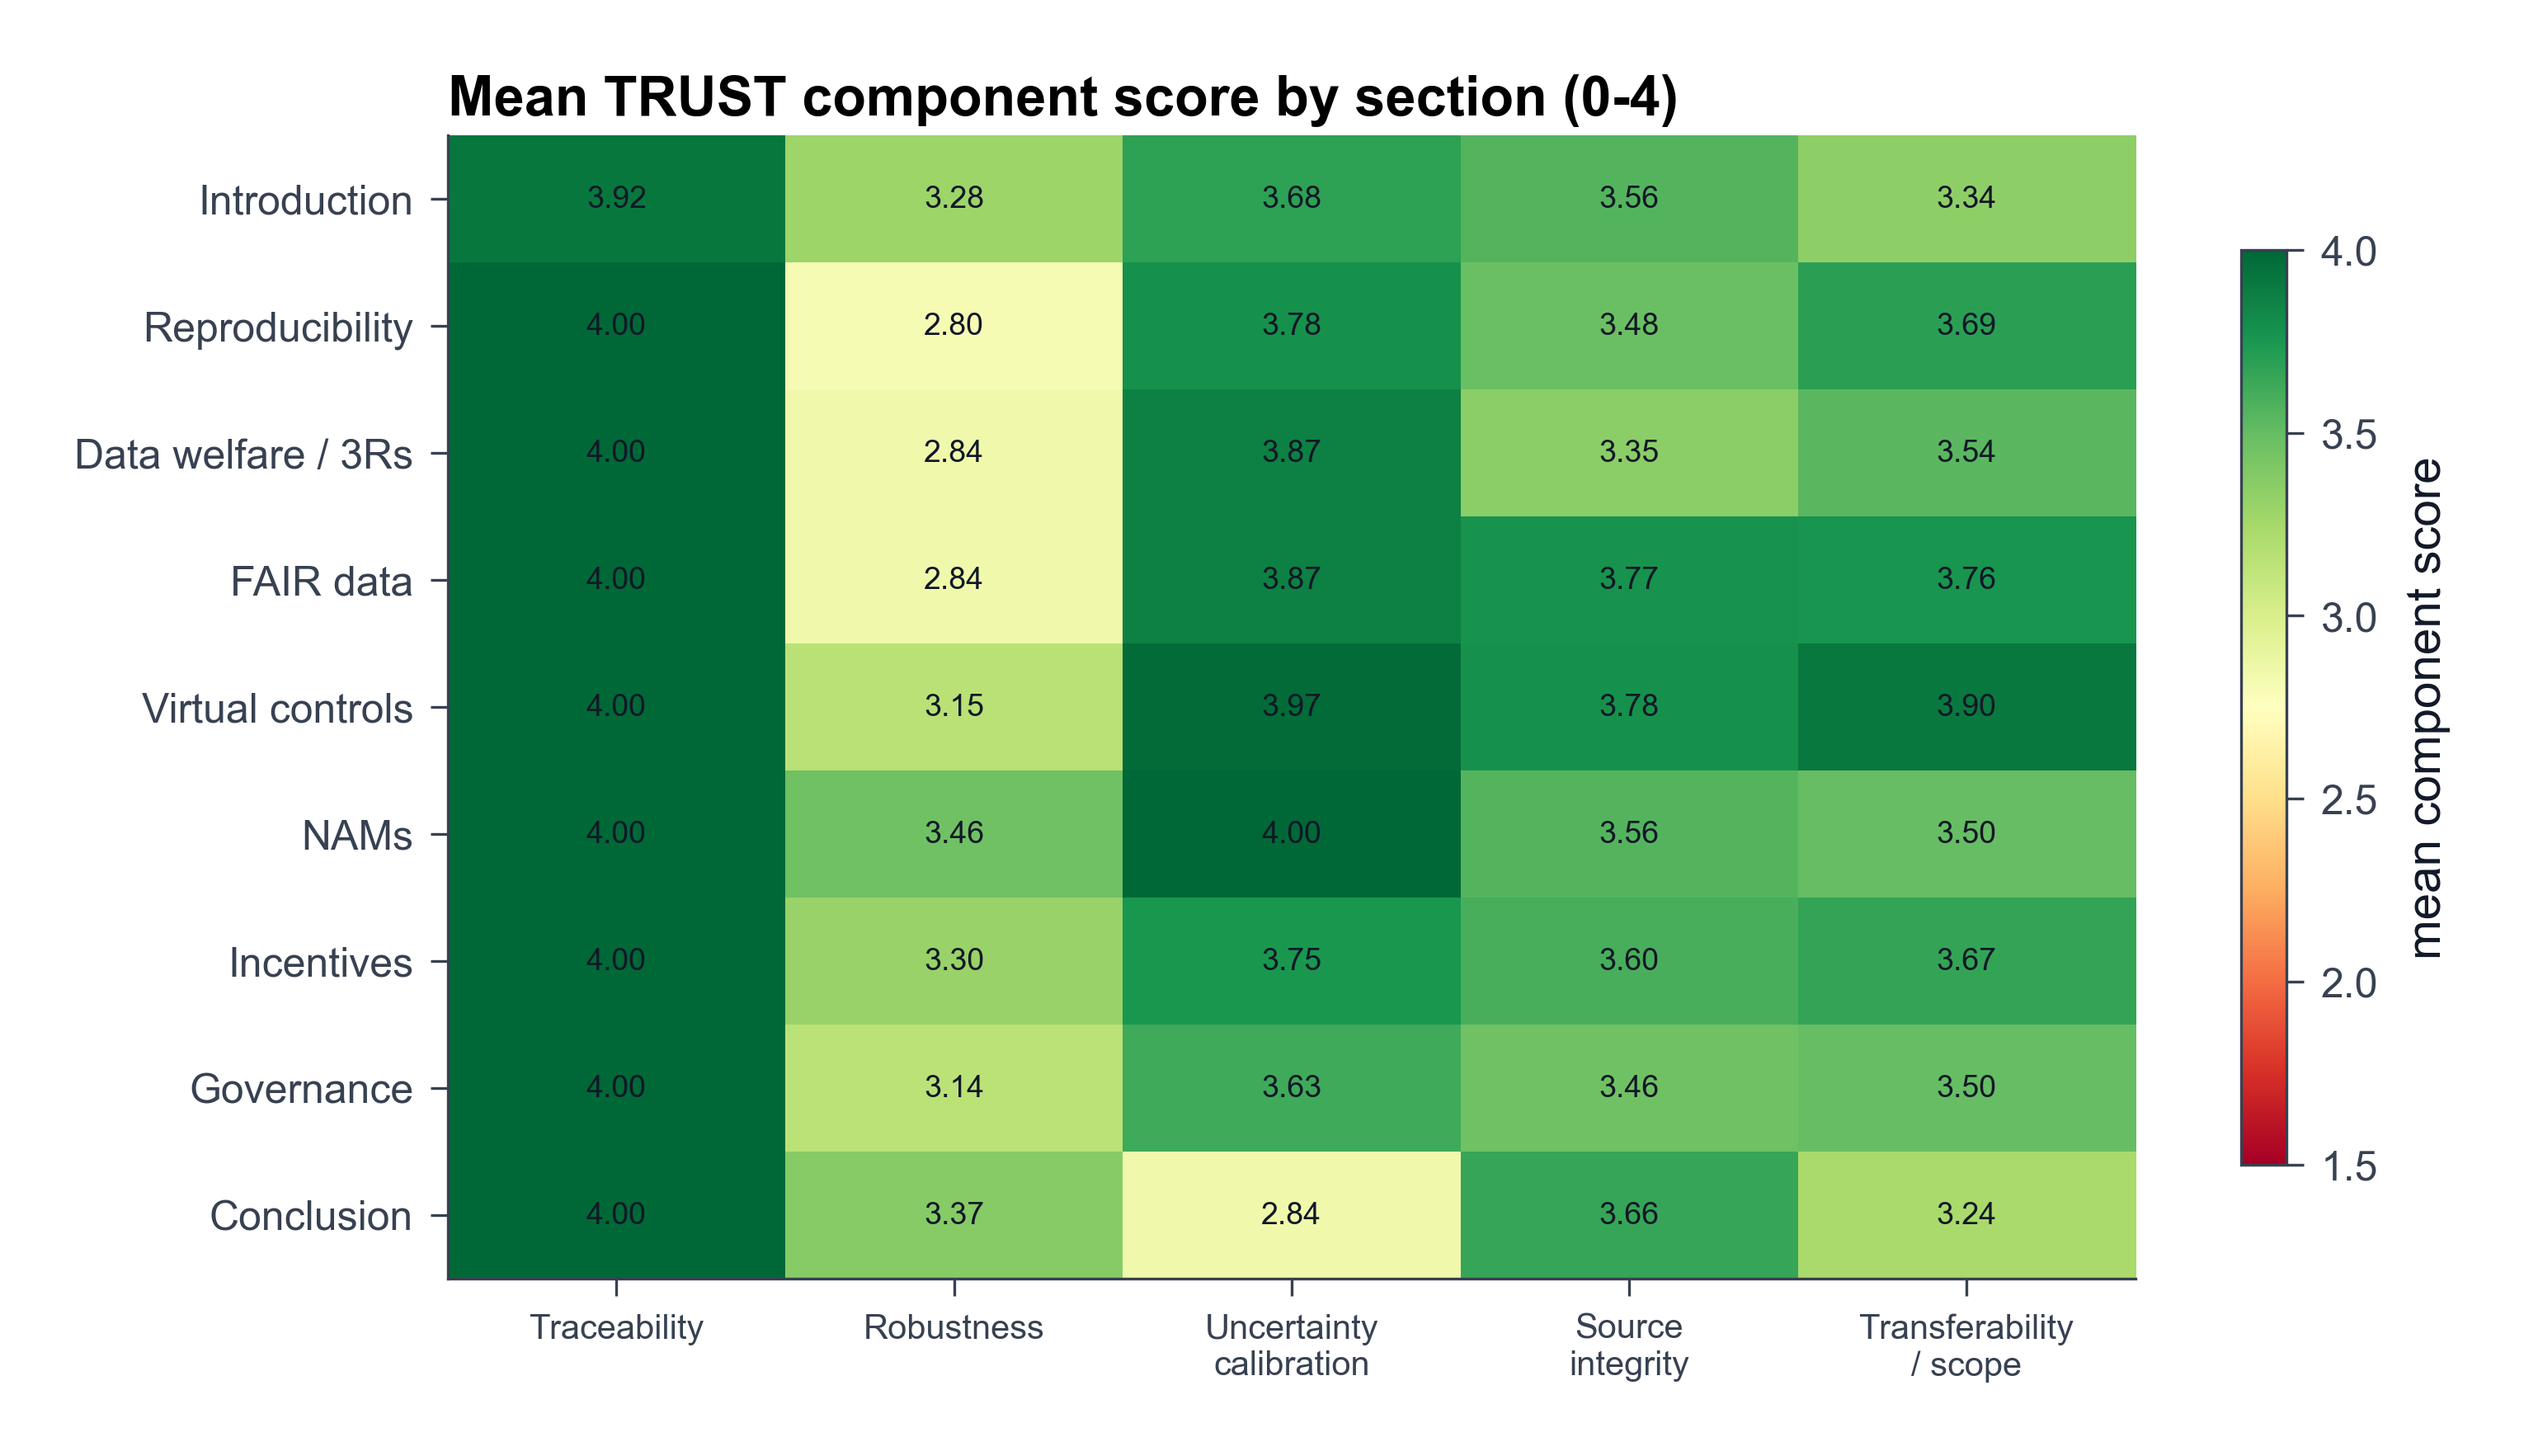
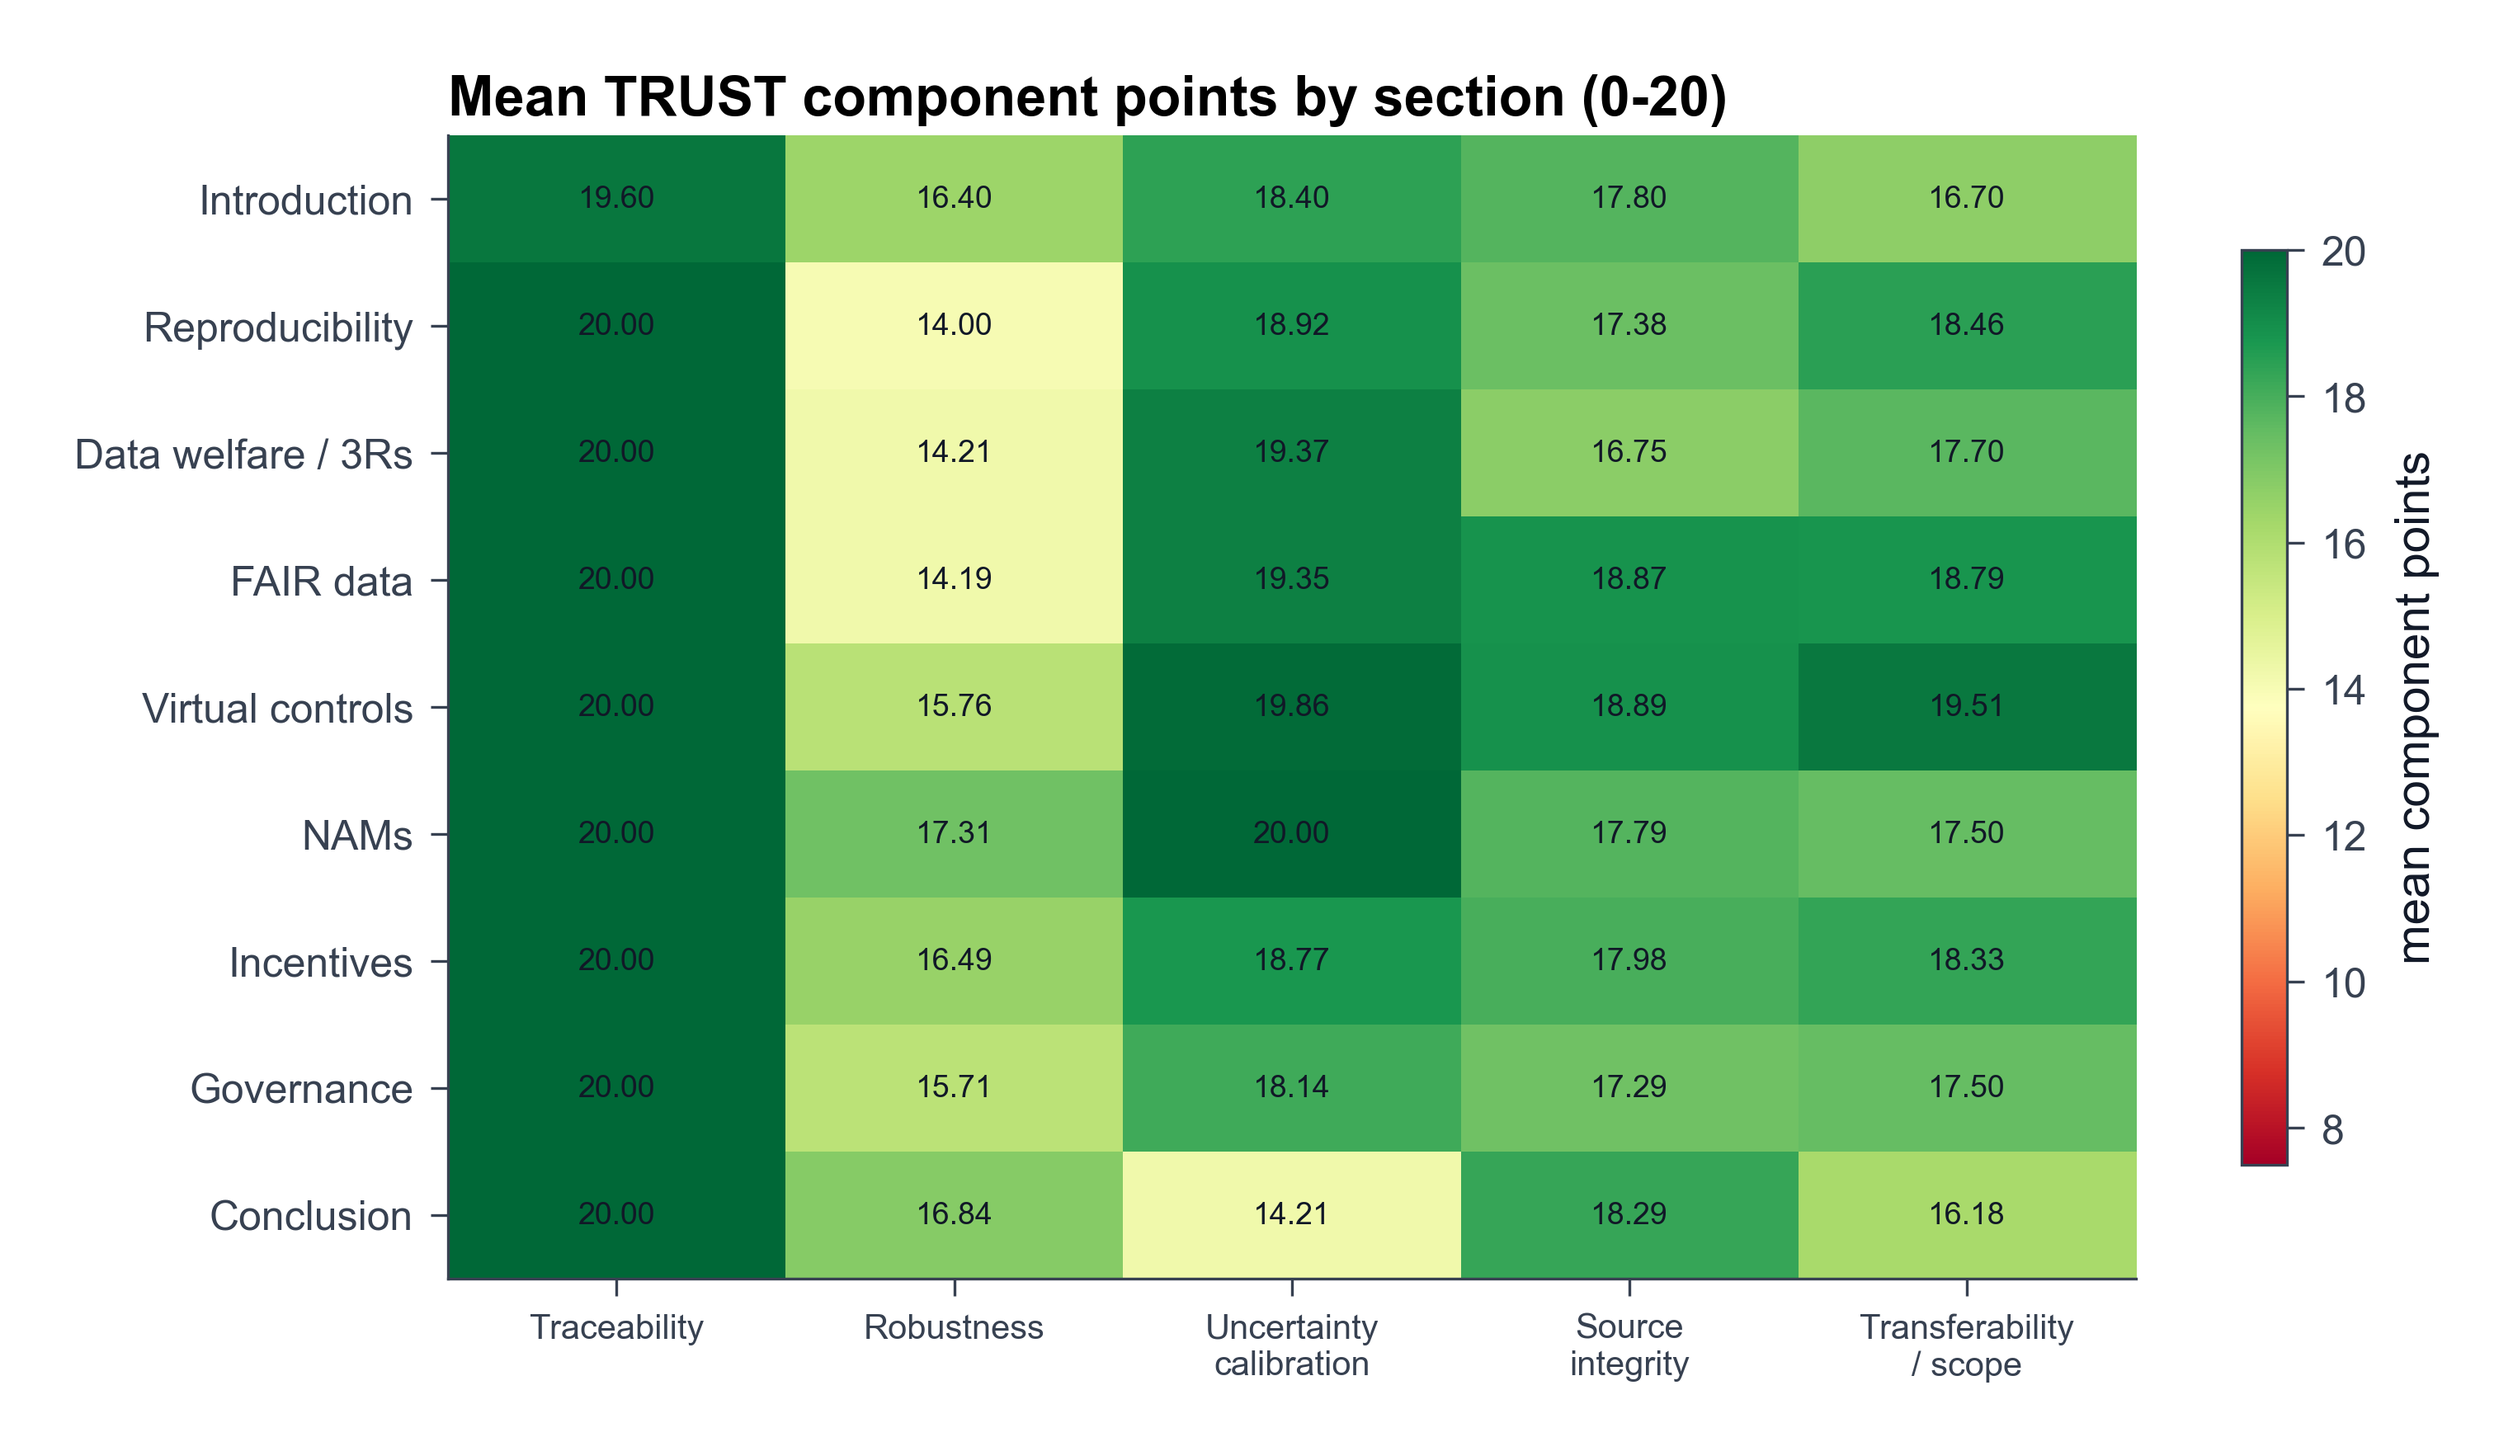
Improve TRUST score and text interactions

diff --git a/content/trust-claim-widget.css b/content/trust-claim-widget.css
@@ -56,6 +56,13 @@
   background: #eef4fb;
 }
 
+.tc-summary.tc-card-is-highlighted,
+.tc-card-btn.tc-card-is-highlighted {
+  background: #dbeafe;
+  border-color: #2563eb;
+  box-shadow: 0 0 0 2px rgba(37, 99, 235, 0.28);
+}
+
 .tc-summary:focus-visible,
 .tc-card-btn:focus-visible {
   outline: 3px solid #2563eb;
@@ -105,7 +112,7 @@
   border-radius: 0.32rem;
   padding: 0.18rem 0.42rem;
   font-size: 0.75rem;
-  min-width: 2rem;
+  min-width: 3.7rem;
   text-align: center;
   font-weight: 800;
 }
@@ -129,6 +136,17 @@ mark.tc-runtime-highlight {
   -webkit-box-decoration-break: clone;
   box-decoration-break: clone;
   transition: background-color 100ms ease, box-shadow 100ms ease;
+}
+
+.trust-claim-target,
+mark.tc-runtime-target {
+  cursor: help;
+}
+
+mark.tc-runtime-target {
+  color: inherit;
+  background: transparent;
+  padding: 0;
 }
 
 html[data-theme="dark"] .trust-claim-target.tc-is-highlighted,

diff --git a/scripts/build_trust_summary.py b/scripts/build_trust_summary.py
@@ -29,12 +29,13 @@ w = L.append
 w("(sec-trust-summary)=")
 w("# Citation Trust Summary\n")
 w("Every cited claim in this review carries a **citation TRUST score**: a 0–100 rating built from "
-  "five components, each scored 0–4 — **Traceability** (does the claim resolve to a citation, DOI, and a "
+  "five components displayed as 0–20 points each — **Traceability** (does the claim resolve to a citation, DOI, and a "
   "verbatim supporting passage?), **Robustness** (independent sources, replication, convergent design), "
   "**Uncertainty calibration** (does the wording hedge conflict and limits appropriately?), "
   "**Source integrity** (verified, bibliographically consistent, primary rather than secondary), and "
   "**Transferability / scope control** (does the claim stay within the evidence's scope?). "
-  "The overall score is `round(100 × sum(components) / 20)`; a mandatory rule caps it at 60 when a claim "
+  "The validated rubric stores each component on a 0–4 rule scale and the interface multiplies it by five; "
+  "the displayed component points sum to the 0–100 total. A mandatory rule caps it at 60 when a claim "
   "rests on an unsupported or contradicted citation or overextends its scope. Components computable from "
   "the review's own verification records were scored deterministically; the wording-and-scope components "
   "were assessed per claim. Bands: **85–100 high · 70–84 moderate · 50–69 low · <50 critical**.\n")
@@ -50,10 +51,10 @@ w("![Overall trust band split and score distribution](../figures/fig_trust_overa
 
 # component means
 cm = rep["component_means"]
-w("## Component means (0–4)\n")
+w("## Component means (0–20 points)\n")
 w("| Traceability | Robustness | Uncertainty calibration | Source integrity | Transferability / scope |")
 w("|---|---|---|---|---|")
-w(f"| {cm['traceability']} | {cm['robustness']} | {cm['uncertainty_calibration']} | {cm['source_integrity']} | {cm['transferability_scope_control']} |\n")
+w(f"| {round(cm['traceability'] * 5, 2)} | {round(cm['robustness'] * 5, 2)} | {round(cm['uncertainty_calibration'] * 5, 2)} | {round(cm['source_integrity'] * 5, 2)} | {round(cm['transferability_scope_control'] * 5, 2)} |\n")
 
 # per-section rollup
 w("## Per-section rollup\n")

diff --git a/scripts/build_trust_figures.py b/scripts/build_trust_figures.py
@@ -57,17 +57,17 @@ ax.spines[["top", "right"]].set_visible(False)
 savefig(fig, "fig_trust_by_section.png")
 
 # ---------- Figure 2: component-mean heatmap (section x component) ----------
-M = np.array([[np.mean([c["trust_score"]["components"][k]["score"] for c in claims if c["section_id"] == s]) for k in COMPS] for s in secs])
+M = 5 * np.array([[np.mean([c["trust_score"]["components"][k]["score"] for c in claims if c["section_id"] == s]) for k in COMPS] for s in secs])
 fig, ax = plt.subplots(figsize=(11, 6))
-im = ax.imshow(M, cmap="RdYlGn", vmin=1.5, vmax=4, aspect="auto")
+im = ax.imshow(M, cmap="RdYlGn", vmin=7.5, vmax=20, aspect="auto")
 ax.set_xticks(range(len(COMPS))); ax.set_xticklabels(COMP_SHORT, fontsize=10)
 ax.set_yticks(range(len(secs))); ax.set_yticklabels([SEC_SHORT[s] for s in secs])
 for i in range(len(secs)):
     for j in range(len(COMPS)):
         ax.text(j, i, f"{M[i, j]:.2f}", ha="center", va="center",
-                color="#111827" if M[i, j] >= 2.6 else "white", fontsize=9)
-ax.set_title("Mean TRUST component score by section (0-4)", fontweight="bold", loc="left")
-cb = fig.colorbar(im, ax=ax, shrink=0.8); cb.set_label("mean component score")
+                color="#111827" if M[i, j] >= 13 else "white", fontsize=9)
+ax.set_title("Mean TRUST component points by section (0-20)", fontweight="bold", loc="left")
+cb = fig.colorbar(im, ax=ax, shrink=0.8); cb.set_label("mean component points")
 savefig(fig, "fig_trust_components.png")
 
 # ---------- Figure 3: overall band donut + score histogram ----------

diff --git a/content/trust_summary.md b/content/trust_summary.md
@@ -1,7 +1,7 @@
 (sec-trust-summary)=
 # Citation Trust Summary
 
-This review exposes **529 claim-level TRUST records** using rubric v2.0.0. Hovering or focusing a score highlights the concerned prose; opening the card reveals all five component rules, rationales, verified source passages, atom attribution, scope status, and cap reasons.
+This review exposes **529 claim-level TRUST records** using rubric v2.0.0. Every score is displayed out of **100**, as five TRUST components worth **20 points each**. The validated data retain the rubric's 0–4 rule level internally and the interface multiplies each component by five. Hovering either the exact scored prose or its score highlights both; opening the card reveals all five component rules, rationales, verified source passages, atom attribution, scope status, and cap reasons.
 
 The mean overall score is **89.6**. Band distribution: **high 444 · moderate 56 · low 29 · critical 0**. **28** claims trigger a mandatory cap, and **29** remain explicit human-review priorities.
 
@@ -11,11 +11,11 @@ The mean overall score is **89.6**. Band distribution: **high 444 · moderate 56
 
 ![Overall trust band split and score distribution](../figures/fig_trust_overall.png)
 
-## Component means (0–4)
+## Component means (0–20 points)
 
 | Traceability | Robustness | Uncertainty calibration | Source integrity | Transferability / scope |
 |---:|---:|---:|---:|---:|
-| 3.99 | 3.11 | 3.75 | 3.58 | 3.60 |
+| 19.95 | 15.55 | 18.75 | 17.90 | 18.00 |
 
 ## Per-section rollup
 
